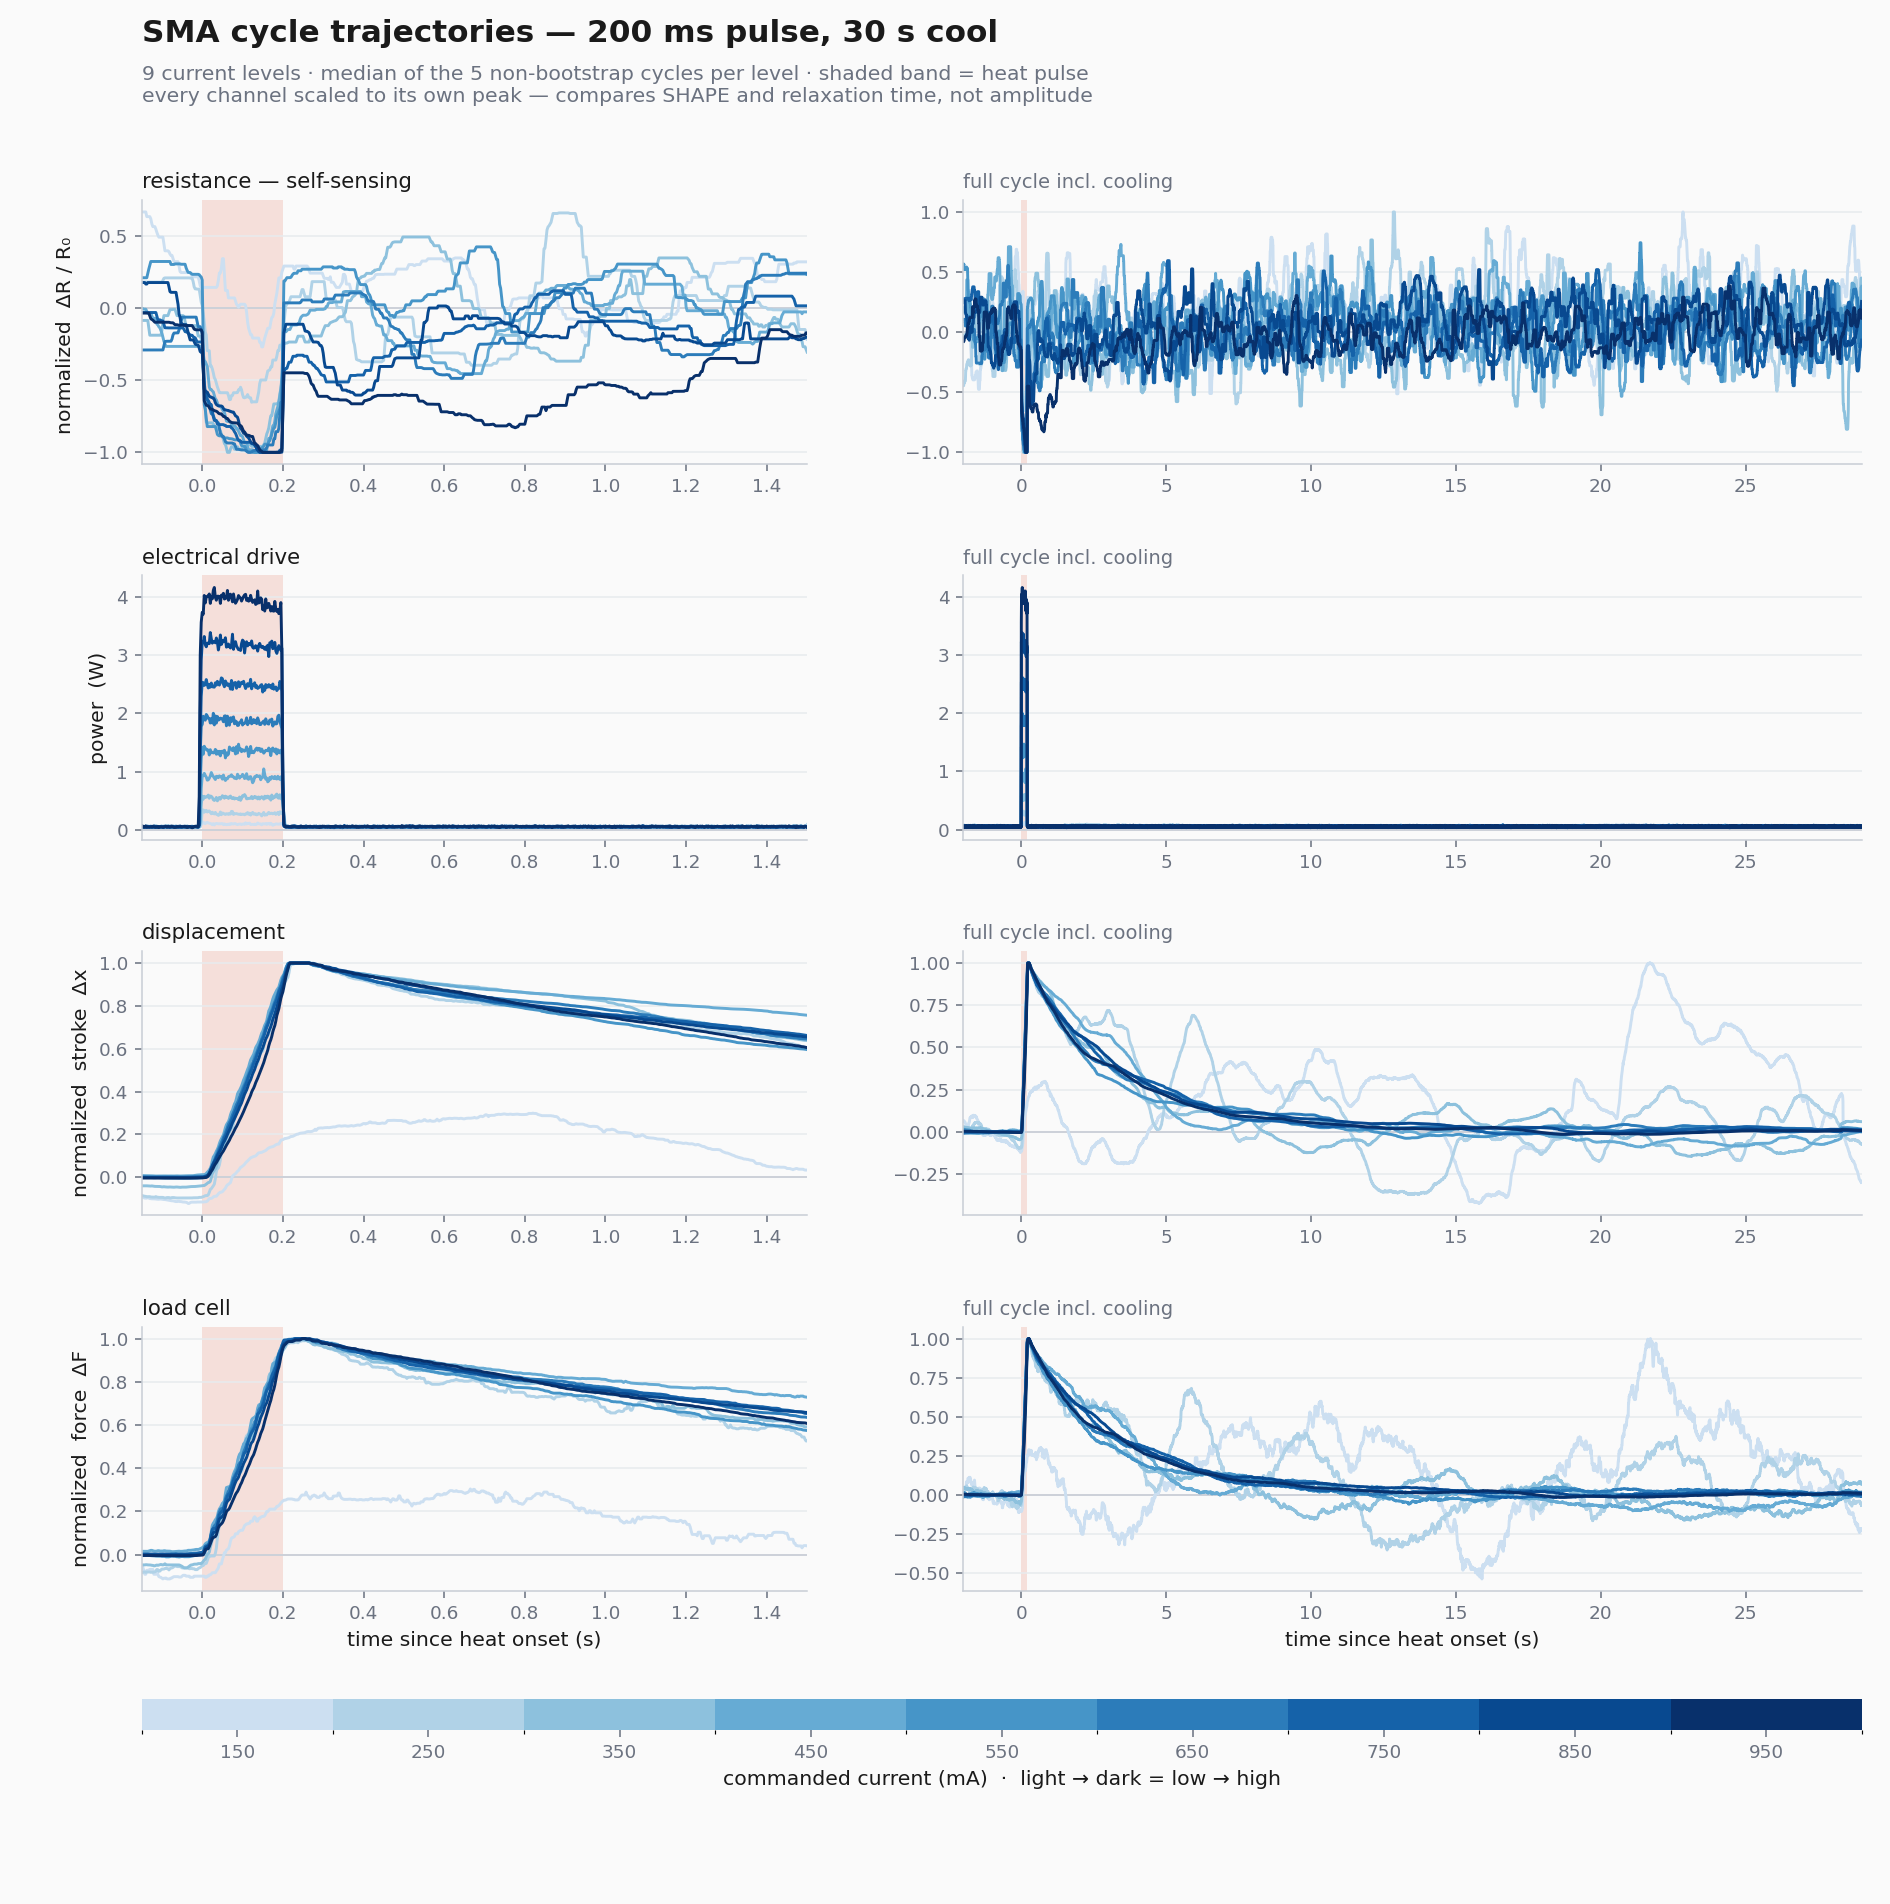
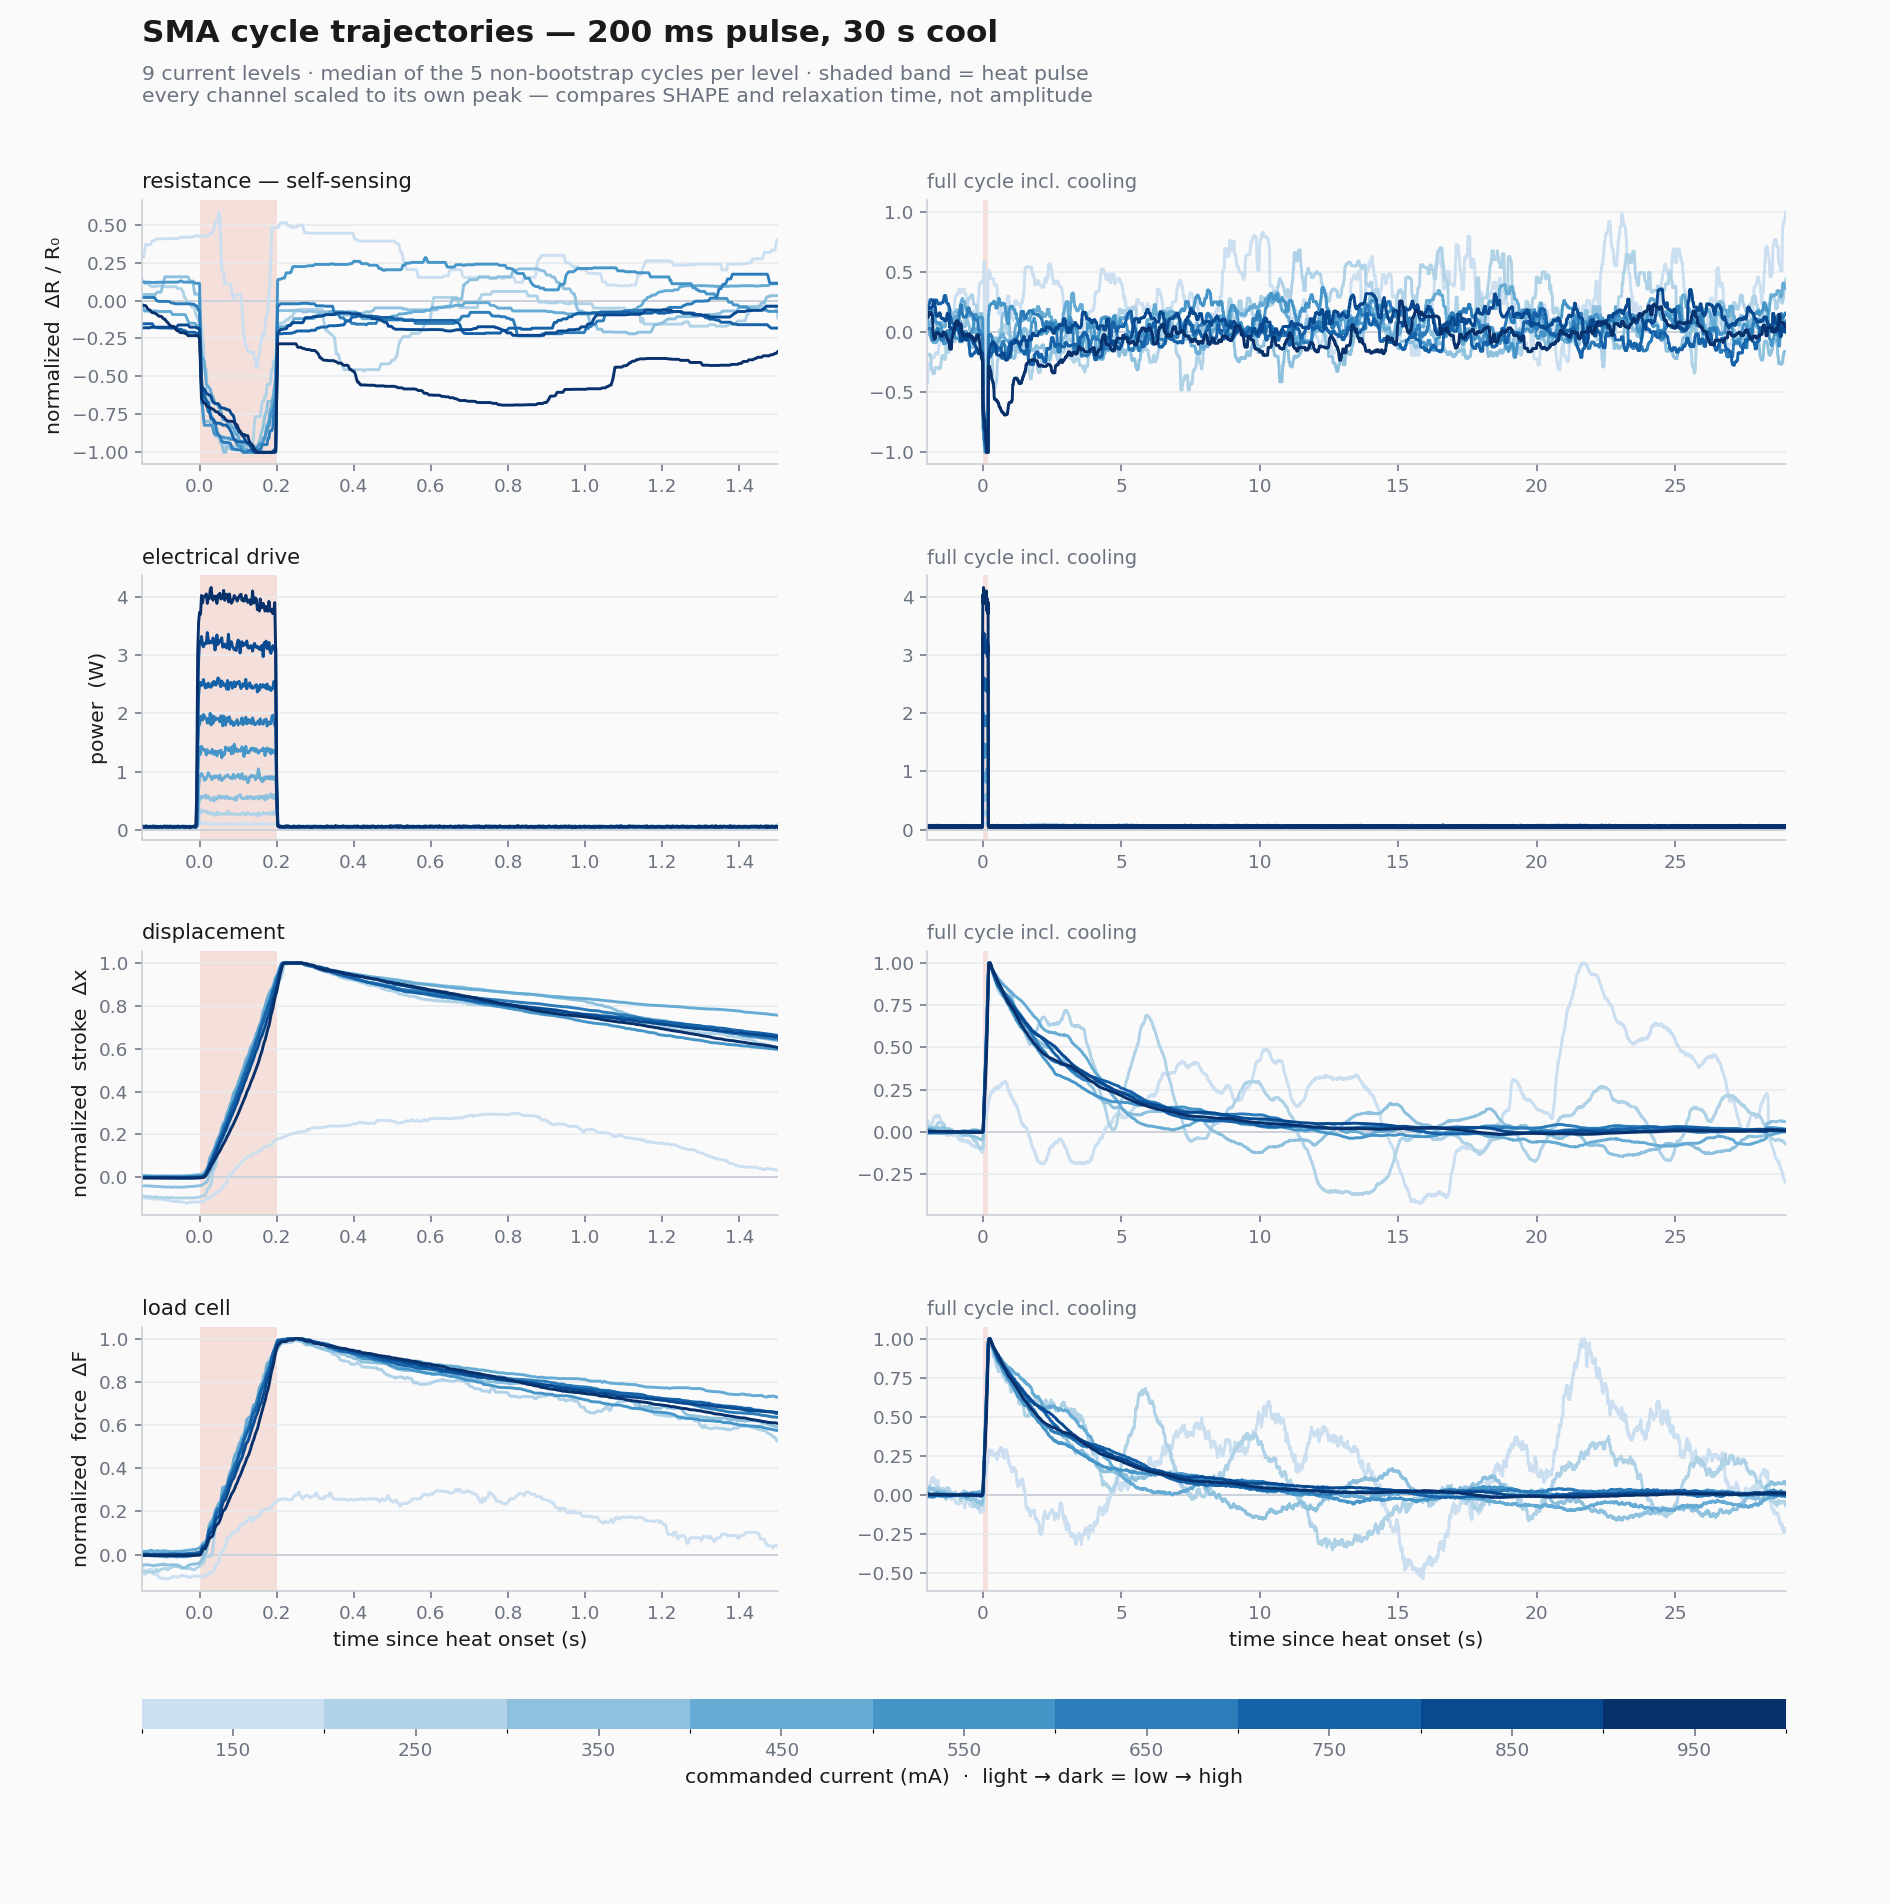
thermal: quieter R panel -- 1 s smoothing + absolute ohms axis
Answers "should R be plotted directly instead of dR/R0, it looks noisy": it
would not help. Measured on the idle phase of 850x400,

    sigma(V)/V = 12.5%   sigma(I)/I = 19.2%   sigma(R)/R = 24.1%
    corr(V,I)  = -0.016  -> independent, so they ADD in R = V/I

and R0 is the median of ~3968 pre-phase samples, known to 0.38% against 24.1%
per-sample noise. dR/R0 and R therefore carry the SAME relative noise -- they
differ by a constant. The noise is in the measurement of R itself, dominated by
the current sense at the ~107 mA idle bias where it sits at ~4% of ADC range.
Plotting ohms would show identical hash with a different y-label.

What does help is the smoothing window, which was set too short. Measured on
the idle phase: 0.25 s -> 4.35%, 0.50 s -> 3.18%, 1.00 s -> 2.33%,
2.00 s -> 1.76%. Raised the outside-pulse window 0.25 -> 1.00 s: cool dynamics
run over 5-20 s so it costs 5-20% of the timescale, while 2 s starts blunting
the fast end for little further gain. In-pulse stays at 20 ms.

Since ohms is what the NN-side contract consumes (r_hot_ohm), the R panel now
carries a right-hand absolute axis as well -- not a second scale, the same axis
relabelled via R = R0*(1 + dR/R0), with R0 printed. The percentage stays
primary because it keeps levels comparable when R0 drifts between conditions.

diff --git a/Experiment_SMAThermalCharacterization/data/plot_trajectory.py b/Experiment_SMAThermalCharacterization/data/plot_trajectory.py
@@ -79,7 +79,11 @@ INK, INK_MUTED = "#1a1a1a", "#6b7280"
 PRE_S, POST_S = 2.0, 29.0
 GRID_HZ = 400.0
 DETAIL_S = 1.5
-SMOOTH_S = 0.25     # rolling-median window for R outside the heat pulse
+# Rolling-median window for R outside the heat pulse. Measured on the idle
+# phase: 0.25 s -> 4.35%, 0.50 s -> 3.18%, 1.00 s -> 2.33%, 2.00 s -> 1.76%.
+# 1 s is the knee: cool dynamics run over 5-20 s so it costs 5-20% of the
+# timescale, while 2 s starts blunting the fast end for little further gain.
+SMOOTH_S = 1.00
 SMOOTH_HEAT_S = 0.020   # lighter window DURING heat — see condition_trace()
 
 # where each (level, heat) lives; map runs preferred, probe fills 950x400
@@ -120,6 +124,7 @@ def condition_trace(sweep, level_mA, heat_ms, grid):
     if n_cyc < 2:
         return None
     stack = {k: [] for k, _, _ in CHANNELS}
+    r0s = []
     for c in range(2, n_cyc + 1):            # cycle 1 = bootstrap, held out
         try:
             df = get_cycle(sweep, level_mA, heat_ms, cycle=c,
@@ -131,6 +136,7 @@ def condition_trace(sweep, level_mA, heat_ms, grid):
         if pre.empty:
             continue
         r0 = float(np.median(pre.sma_r.dropna())) if pre.sma_r.notna().any() else np.nan
+        r0s.append(r0)
         x0, f0 = pre.laser_mm.mean(), pre.force_mN.mean()
         cols = {
             "dR_pct": 100.0 * (df.sma_r.to_numpy() / r0 - 1.0) if r0 == r0 else None,
@@ -168,6 +174,8 @@ def condition_trace(sweep, level_mA, heat_ms, grid):
     for k, arr in stack.items():
         if arr:
             out[k] = np.nanmedian(np.vstack(arr), axis=0)
+    if out and r0s:
+        out["_r0"] = float(np.nanmedian(r0s))
     return out or None
 
 
@@ -198,9 +206,11 @@ def build(heat_ms, norm, levels):
     fig, axes = plt.subplots(len(CHANNELS), 2, figsize=(13.5, 13.6),
                              gridspec_kw={"width_ratios": [1, 1.35]})
     fig.patch.set_facecolor(SURFACE)
-    fig.subplots_adjust(top=0.895, bottom=0.085, left=0.075, right=0.985,
+    fig.subplots_adjust(top=0.895, bottom=0.085, left=0.075, right=0.945,
                         hspace=0.42, wspace=0.20)
 
+    r0_all = [t["_r0"] for t in traces.values() if "_r0" in t]
+    r0_med = float(np.median(r0_all)) if r0_all else np.nan
     heat_s = heat_ms / 1000.0
     for row, (key, ylab, subtitle) in enumerate(CHANNELS):
         for col, (t_lo, t_hi) in enumerate([(-0.15, DETAIL_S), (-PRE_S, POST_S)]):
@@ -209,6 +219,8 @@ def build(heat_ms, norm, levels):
             ax.axvspan(0, heat_s, color="#f2c9c0", alpha=0.55, lw=0, zorder=0)
             for lv in lv_sorted:
                 y = traces[lv].get(key)
+                if key.startswith("_"):
+                    continue
                 if y is None:
                     continue
                 if norm == "shape" and key != "power_W":
@@ -247,6 +259,21 @@ def build(heat_ms, norm, levels):
             else:
                 ax.set_title("full cycle incl. cooling", loc="left",
                              fontsize=10, color=INK_MUTED, pad=6)
+            if key == "dR_pct" and norm == "abs" and r0_med == r0_med:
+                # Absolute ohms on the right. NOT a second scale -- it is the
+                # same axis relabelled, since R = R0*(1 + dR/R0). Normalizing
+                # does not add noise (R0 is known to 0.38% against 24%
+                # per-sample), so this is purely "read it in ohms if you
+                # prefer"; the percentage keeps levels comparable when R0
+                # drifts between conditions.
+                axr = ax.twinx()
+                axr.set_ylim([r0_med * (1 + v / 100.0) for v in ax.get_ylim()])
+                axr.set_ylabel(f"R  (Ω)   ·   R₀ = {r0_med:.2f} Ω",
+                               fontsize=9.5, color=INK_MUTED)
+                axr.tick_params(colors=INK_MUTED, labelsize=9)
+                for sd in ("top", "left", "bottom"):
+                    axr.spines[sd].set_visible(False)
+                axr.spines["right"].set_color("#c9ced6")
             if row == len(CHANNELS) - 1:
                 ax.set_xlabel("time since heat onset (s)", fontsize=10.5,
                               color=INK)
